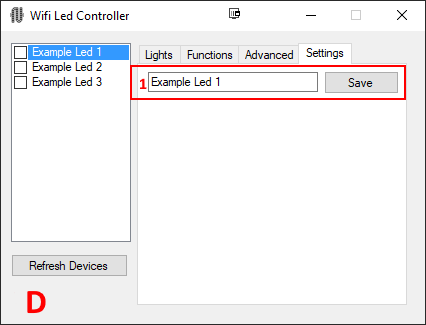
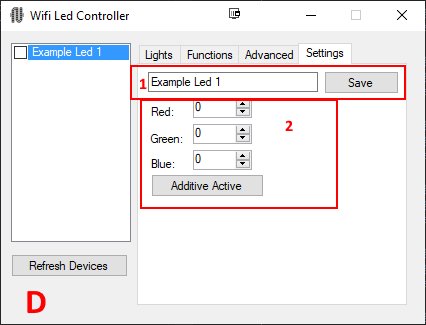
Fixed Ambiance settings resetting at start up. There are now two options for modifying the color values returned by the ScreenProcessor. These settings will also be saved and restored.

Changed region(s): [[0.3052, 0.3077, 0.7934, 0.6462], [0.0305, 0.1846, 0.2441, 0.2769], [0.6714, 0.3692, 0.7019, 0.4]]

diff --git a/WifiLedController/Mainview.Designer.cs b/WifiLedController/Mainview.Designer.cs
@@ -34,13 +34,16 @@
             this.buttonRefreshList = new System.Windows.Forms.Button();
             this.backgroundWorker1 = new System.ComponentModel.BackgroundWorker();
             this.tabPage4 = new System.Windows.Forms.TabPage();
+            this.buttonSettingSwitch = new System.Windows.Forms.Button();
             this.labelSettingsBlue = new System.Windows.Forms.Label();
             this.labellabelSettingsGreen = new System.Windows.Forms.Label();
             this.labelSettingsRed = new System.Windows.Forms.Label();
             this.numericUpDownSettingsBlue = new System.Windows.Forms.NumericUpDown();
             this.numericUpDownSettingsGreen = new System.Windows.Forms.NumericUpDown();
             this.numericUpDownSettingsRed = new System.Windows.Forms.NumericUpDown();
+            #if DEBUG
             this.buttonAddDummy = new System.Windows.Forms.Button();
+            #endif
             this.buttonSettingsNameSave = new System.Windows.Forms.Button();
             this.textBoxSettingsName = new System.Windows.Forms.TextBox();
             this.tabPage3 = new System.Windows.Forms.TabPage();
@@ -87,7 +90,6 @@
             this.numericUpDownRed = new System.Windows.Forms.NumericUpDown();
             this.blueBar = new System.Windows.Forms.TrackBar();
             this.tabControlDevice = new System.Windows.Forms.TabControl();
-            this.buttonSettingSwitch = new System.Windows.Forms.Button();
             this.tabPage4.SuspendLayout();
             ((System.ComponentModel.ISupportInitialize)(this.numericUpDownSettingsBlue)).BeginInit();
             ((System.ComponentModel.ISupportInitialize)(this.numericUpDownSettingsGreen)).BeginInit();
@@ -151,7 +153,9 @@
             this.tabPage4.Controls.Add(this.numericUpDownSettingsBlue);
             this.tabPage4.Controls.Add(this.numericUpDownSettingsGreen);
             this.tabPage4.Controls.Add(this.numericUpDownSettingsRed);
+            #if DEBUG
             this.tabPage4.Controls.Add(this.buttonAddDummy);
+            #endif
             this.tabPage4.Controls.Add(this.buttonSettingsNameSave);
             this.tabPage4.Controls.Add(this.textBoxSettingsName);
             this.tabPage4.Location = new System.Drawing.Point(4, 22);
@@ -162,66 +166,77 @@
             this.tabPage4.Text = "Settings";
             this.tabPage4.UseVisualStyleBackColor = true;
             // 
+            // buttonSettingSwitch
+            // 
+            this.buttonSettingSwitch.Location = new System.Drawing.Point(10, 109);
+            this.buttonSettingSwitch.Name = "buttonSettingSwitch";
+            this.buttonSettingSwitch.Size = new System.Drawing.Size(113, 23);
+            this.buttonSettingSwitch.TabIndex = 9;
+            this.buttonSettingSwitch.Text = "Additive Active";
+            this.buttonSettingSwitch.UseVisualStyleBackColor = true;
+            this.buttonSettingSwitch.Click += new System.EventHandler(this.button1_Click_2);
+            // 
             // labelSettingsBlue
             // 
             this.labelSettingsBlue.AutoSize = true;
             this.labelSettingsBlue.Location = new System.Drawing.Point(7, 92);
             this.labelSettingsBlue.Name = "labelSettingsBlue";
-            this.labelSettingsBlue.Size = new System.Drawing.Size(28, 13);
+            this.labelSettingsBlue.Size = new System.Drawing.Size(31, 13);
             this.labelSettingsBlue.TabIndex = 8;
-            this.labelSettingsBlue.Text = "Blue";
+            this.labelSettingsBlue.Text = "Blue:";
             // 
             // labellabelSettingsGreen
             // 
             this.labellabelSettingsGreen.AutoSize = true;
             this.labellabelSettingsGreen.Location = new System.Drawing.Point(7, 67);
             this.labellabelSettingsGreen.Name = "labellabelSettingsGreen";
-            this.labellabelSettingsGreen.Size = new System.Drawing.Size(36, 13);
+            this.labellabelSettingsGreen.Size = new System.Drawing.Size(39, 13);
             this.labellabelSettingsGreen.TabIndex = 7;
-            this.labellabelSettingsGreen.Text = "Green";
+            this.labellabelSettingsGreen.Text = "Green:";
             // 
             // labelSettingsRed
             // 
             this.labelSettingsRed.AutoSize = true;
             this.labelSettingsRed.Location = new System.Drawing.Point(7, 40);
             this.labelSettingsRed.Name = "labelSettingsRed";
-            this.labelSettingsRed.Size = new System.Drawing.Size(27, 13);
+            this.labelSettingsRed.Size = new System.Drawing.Size(30, 13);
             this.labelSettingsRed.TabIndex = 6;
-            this.labelSettingsRed.Text = "Red";
+            this.labelSettingsRed.Text = "Red:";
             // 
             // numericUpDownSettingsBlue
             // 
-            this.numericUpDownSettingsBlue.DecimalPlaces = 2;
-            this.numericUpDownSettingsBlue.Location = new System.Drawing.Point(94, 86);
+            this.numericUpDownSettingsBlue.Location = new System.Drawing.Point(52, 85);
             this.numericUpDownSettingsBlue.Name = "numericUpDownSettingsBlue";
-            this.numericUpDownSettingsBlue.Size = new System.Drawing.Size(120, 20);
+            this.numericUpDownSettingsBlue.Size = new System.Drawing.Size(59, 20);
             this.numericUpDownSettingsBlue.TabIndex = 5;
+            this.numericUpDownSettingsBlue.ValueChanged += new System.EventHandler(this.numericUpDownSettingsBlue_ValueChanged);
             // 
             // numericUpDownSettingsGreen
             // 
-            this.numericUpDownSettingsGreen.DecimalPlaces = 2;
-            this.numericUpDownSettingsGreen.Location = new System.Drawing.Point(94, 60);
+            this.numericUpDownSettingsGreen.Location = new System.Drawing.Point(52, 59);
             this.numericUpDownSettingsGreen.Maximum = new decimal(new int[] {
             255,
             0,
             0,
             0});
             this.numericUpDownSettingsGreen.Name = "numericUpDownSettingsGreen";
-            this.numericUpDownSettingsGreen.Size = new System.Drawing.Size(120, 20);
+            this.numericUpDownSettingsGreen.Size = new System.Drawing.Size(59, 20);
             this.numericUpDownSettingsGreen.TabIndex = 4;
+            this.numericUpDownSettingsGreen.ValueChanged += new System.EventHandler(this.numericUpDownSettingsGreen_ValueChanged);
             // 
             // numericUpDownSettingsRed
             // 
-            this.numericUpDownSettingsRed.DecimalPlaces = 2;
-            this.numericUpDownSettingsRed.Location = new System.Drawing.Point(94, 34);
+            this.numericUpDownSettingsRed.Location = new System.Drawing.Point(52, 33);
             this.numericUpDownSettingsRed.Maximum = new decimal(new int[] {
             255,
             0,
             0,
             0});
             this.numericUpDownSettingsRed.Name = "numericUpDownSettingsRed";
-            this.numericUpDownSettingsRed.Size = new System.Drawing.Size(120, 20);
+            this.numericUpDownSettingsRed.Size = new System.Drawing.Size(59, 20);
             this.numericUpDownSettingsRed.TabIndex = 3;
+            this.numericUpDownSettingsRed.ValueChanged += new System.EventHandler(this.numericUpDownSettingsRed_ValueChanged);
+#if DEBUG
             // 
             // buttonAddDummy
             // 
@@ -232,6 +247,7 @@
             this.buttonAddDummy.Text = "buttonAddDummy";
             this.buttonAddDummy.UseVisualStyleBackColor = true;
             this.buttonAddDummy.Click += new System.EventHandler(this.buttonAddDummy_Click_1);
+#endif
             // 
             // buttonSettingsNameSave
             // 
@@ -810,16 +826,6 @@
             this.tabControlDevice.Size = new System.Drawing.Size(272, 263);
             this.tabControlDevice.TabIndex = 21;
             // 
-            // buttonSettingSwitch
-            // 
-            this.buttonSettingSwitch.Location = new System.Drawing.Point(10, 109);
-            this.buttonSettingSwitch.Name = "buttonSettingSwitch";
-            this.buttonSettingSwitch.Size = new System.Drawing.Size(113, 23);
-            this.buttonSettingSwitch.TabIndex = 9;
-            this.buttonSettingSwitch.Text = "Additive Active";
-            this.buttonSettingSwitch.UseVisualStyleBackColor = true;
-            this.buttonSettingSwitch.Click += new System.EventHandler(this.button1_Click_2);
-            // 
             // Mainview
             // 
             this.AutoScaleDimensions = new System.Drawing.SizeF(6F, 13F);
@@ -870,7 +876,7 @@
 
         }
 
-        #endregion
+#endregion
         private System.Windows.Forms.ColorDialog colorDialog1;
         private System.Windows.Forms.CheckedListBox checkedListBoxDevices;
         private System.Windows.Forms.Button buttonRefreshList;
@@ -922,7 +928,9 @@
         private System.Windows.Forms.CheckBox checkBoxMouseTracking;
         private System.Windows.Forms.Label labelAdvancedCoordinates;
         private System.Windows.Forms.Label labelColorMouse;
+#if DEBUG
         private System.Windows.Forms.Button buttonAddDummy;
+#endif
         private System.Windows.Forms.Label labelSettingsBlue;
         private System.Windows.Forms.Label labellabelSettingsGreen;
         private System.Windows.Forms.Label labelSettingsRed;

diff --git a/WifiLedController/XmlSettings.cs b/WifiLedController/XmlSettings.cs
@@ -50,10 +50,9 @@ namespace WifiLedController {
         //  X, Xwidth,Xstride, Y, Yheight, Ystride 
         public (int, int, int, int, int, int) ReadAmbianceSettings() {
             XmlNode result = settings.DocumentElement.SelectSingleNode("//AmbianceSettings");
-            Debug.WriteLine("[ReadAmbianceSettings()] " + result.InnerXml);
-            if(result != null || result.InnerText != "" ) {//<X>0</X><Xwidth>1920</Xwidth><Xstride>10</Xstride><Y>1060</Y><Yheight>20</Yheight><Ystride>2</Ystride>
-                XmlNodeList coords =  result.ChildNodes;
-                Debug.WriteLine(result["X"].InnerText);
+            
+            if(result != null) {//<X>0</X><Xwidth>1920</Xwidth><Xstride>10</Xstride><Y>1060</Y><Yheight>20</Yheight><Ystride>2</Ystride>
+                Debug.WriteLine("[ReadAmbianceSettings()] " + result.InnerXml);
                 //Parse the Xml 
                 int X = int.Parse(result["X"].InnerText);
                 int Xwidth = int.Parse(result["Xwidth"].InnerText);
@@ -70,9 +69,10 @@ namespace WifiLedController {
         public void AddAmbianceSettings(int X, int Xwidth, int Xstride, int Y, int Yheight, int Ystride) {
 
             XmlNode result = settings.DocumentElement.SelectSingleNode("//AmbianceSettings");
-            Debug.WriteLine("[AddAmbianceSettings] " + result.InnerXml);
+            
             Debug.WriteLine("[AddAmbianceSettings] {0}, {1}, {2}, {3}, {4}, {5}",X,Xwidth,Xstride,Y,Yheight,Ystride);
             if(result == null) {
+                
                 XmlElement colorSettings = settings.CreateElement("AmbianceSettings");
 
                 //Set up the internal structure and values
@@ -103,13 +103,65 @@ namespace WifiLedController {
                 settings.DocumentElement.AppendChild(colorSettings);
 
             } else {
-
+                Debug.WriteLine("[AddAmbianceSettings] " + result.InnerXml);
                 result["X"].InnerText = X.ToString();
                 result["Xwidth"].InnerText = Xwidth.ToString();
                 result["Xstride"].InnerText = Xstride.ToString();
                 result["Y"].InnerText = Y.ToString();
                 result["Yheight"].InnerText = Yheight.ToString();
                 result["Ystride"].InnerText = Ystride.ToString();
+            }
+        }
+
+        public (float, float, float, string) ReadAmbianceColorTuningSettings() {
+            XmlNode result = settings.DocumentElement.SelectSingleNode("//AmbianceColorTuningSettings");
+            
+            if (result != null) {
+                Debug.WriteLine("[ReadAmbianceColorTuningSettings()] " + result.InnerXml);
+                //Parse the Xml 
+                float red = float.Parse(result["Red"].InnerText);
+                float green = float.Parse(result["Green"].InnerText);
+                float blue = float.Parse(result["Blue"].InnerText);
+                string mode = result["Mode"].InnerText;
+                return (red,green,blue,mode);
+            }
+            //Default values
+            return (0, 0, 0, "Additive");
+        }
+
+        public void AddAmbianceColorTuningSettings(float red, float green, float blue, string mode) {
+
+            XmlNode result = settings.DocumentElement.SelectSingleNode("//AmbianceColorTuningSettings");
+            //Debug.WriteLine("[AddAmbianceSettings] " + result.InnerXml);
+            
+            if (result == null) {
+                XmlElement colorSettings = settings.CreateElement("AmbianceColorTuningSettings");
+
+                //Set up the internal structure and values
+                XmlElement setting = settings.CreateElement("Red");
+                setting.InnerText = red.ToString();
+                colorSettings.AppendChild(setting);
+
+                setting = settings.CreateElement("Green");
+                setting.InnerText = green.ToString();
+                colorSettings.AppendChild(setting);
+
+                setting = settings.CreateElement("Blue");
+                setting.InnerText = blue.ToString();
+                colorSettings.AppendChild(setting);
+
+                setting = settings.CreateElement("Mode");
+                setting.InnerText = mode;
+                colorSettings.AppendChild(setting);
+
+                settings.DocumentElement.AppendChild(colorSettings);
+
+            } else {
+
+                result["Red"].InnerText = red.ToString();
+                result["Green"].InnerText = green.ToString();
+                result["Blue"].InnerText = blue.ToString();
+                result["Mode"].InnerText = mode;
             }
         }
 
@@ -139,6 +191,15 @@ namespace WifiLedController {
                             + "<xs:element name = \"Ystride\" type = \"xs:int\"/>"                       
                             + "</xs:sequence>"
                             + "</xs:complexType >"
+                            + "<xs:element name=\"AmbianceColorTuningSettings\" type=\"AmbianceColorTuningSettingsValues\"/>"
+                            + "<xs:complexType name=\"AmbianceColorTuningSettingsValues\">"
+                            + "<xs:sequence>"
+                            + "<xs:element name=\"Red\" type=\"xs:float\"/>"
+                            + "<xs:element name=\"Green\" type=\"xs:float\"/>"
+                            + "<xs:element name=\"Blue\" type=\"xs:float\"/>"
+                            + "<xs:element name=\"Mode\" type=\"xs:string\"/>"
+                            + "</xs:sequence>"
+                            + "</xs:complexType>"
                             + "</xs:schema>";
             return schema;
         }

diff --git a/WifiLedController/Mainview.cs b/WifiLedController/Mainview.cs
@@ -33,11 +33,25 @@ namespace WifiLedController {
             FillFunctionList();
 
             SetupAmbianceSettings();
+            SetupAmbianceColorTuningSettings();
             updateCalculations();
             this.backgroundWorker1.WorkerSupportsCancellation = true;
             this.backgroundWorker1.WorkerReportsProgress = true;
         }
 
+        private void SetupAmbianceColorTuningSettings() {
+            (float red, float green, float blue, string mode) = xmlSettings.ReadAmbianceColorTuningSettings();
+            numericUpDownSettingsRed.Value = (decimal)red;
+            numericUpDownSettingsGreen.Value = (decimal)green;
+            numericUpDownSettingsBlue.Value = (decimal)blue;
+            if (mode.Equals("Multiplier")) {
+                ambianceMult = true;
+                buttonSettingSwitch.Text = "Multiplier Active";
+                numericUpDownSettingsRed.DecimalPlaces = 2;
+                numericUpDownSettingsGreen.DecimalPlaces = 2;
+                numericUpDownSettingsBlue.DecimalPlaces = 2;
+            }
+        }
 
         private void SetupAmbianceSettings() {
             (int X, int Xwidth, int Xstride, int Y, int Yheight, int Ystride) = xmlSettings.ReadAmbianceSettings();
@@ -459,10 +473,13 @@ namespace WifiLedController {
             } else {// uncheck
                 activeLeds.Remove((WifiLed)checkedListBoxDevices.Items[e.Index]);
             }
-         
+#if DEBUG
+
+
             foreach(WifiLed led in activeLeds) {
                 Debug.WriteLine("[activeLeds] : " + led);
             }
+#endif
 
         }
 
@@ -684,7 +701,42 @@ namespace WifiLedController {
             temp = numericUpDownSettingsBlue.Value;
             numericUpDownSettingsBlue.Value = blueAmbiance;
             blueAmbiance = temp;
+            if (ambianceMult) {
+                xmlSettings.AddAmbianceColorTuningSettings((float)numericUpDownSettingsRed.Value, (float)numericUpDownSettingsGreen.Value,
+                    (float)numericUpDownSettingsBlue.Value, "Multiplier");
+                numericUpDownSettingsRed.DecimalPlaces = 2;
+                numericUpDownSettingsGreen.DecimalPlaces = 2;
+                numericUpDownSettingsBlue.DecimalPlaces = 2;
+            } else {
+                xmlSettings.AddAmbianceColorTuningSettings((float)numericUpDownSettingsRed.Value, (float)numericUpDownSettingsGreen.Value,
+                    (float)numericUpDownSettingsBlue.Value, "Additive");
+                numericUpDownSettingsRed.DecimalPlaces = 0;
+                numericUpDownSettingsGreen.DecimalPlaces = 0;
+                numericUpDownSettingsBlue.DecimalPlaces = 0;
+            }
 
+        }
+
+        private void numericUpDownSettingsRed_ValueChanged(object sender, EventArgs e) {
+            updateColorTuningSettings();
+        }
+
+        private void numericUpDownSettingsGreen_ValueChanged(object sender, EventArgs e) {
+            updateColorTuningSettings();
+        }
+
+        private void numericUpDownSettingsBlue_ValueChanged(object sender, EventArgs e) {
+            updateColorTuningSettings();
+        }
+
+        private void updateColorTuningSettings() {
+            if (ambianceMult) {
+                xmlSettings.AddAmbianceColorTuningSettings((float)numericUpDownSettingsRed.Value, (float)numericUpDownSettingsGreen.Value,
+                    (float)numericUpDownSettingsBlue.Value, "Multiplier");
+            } else {
+                xmlSettings.AddAmbianceColorTuningSettings((float)numericUpDownSettingsRed.Value, (float)numericUpDownSettingsGreen.Value,
+                    (float)numericUpDownSettingsBlue.Value, "Additive");
+            }
         }
     }
 }
